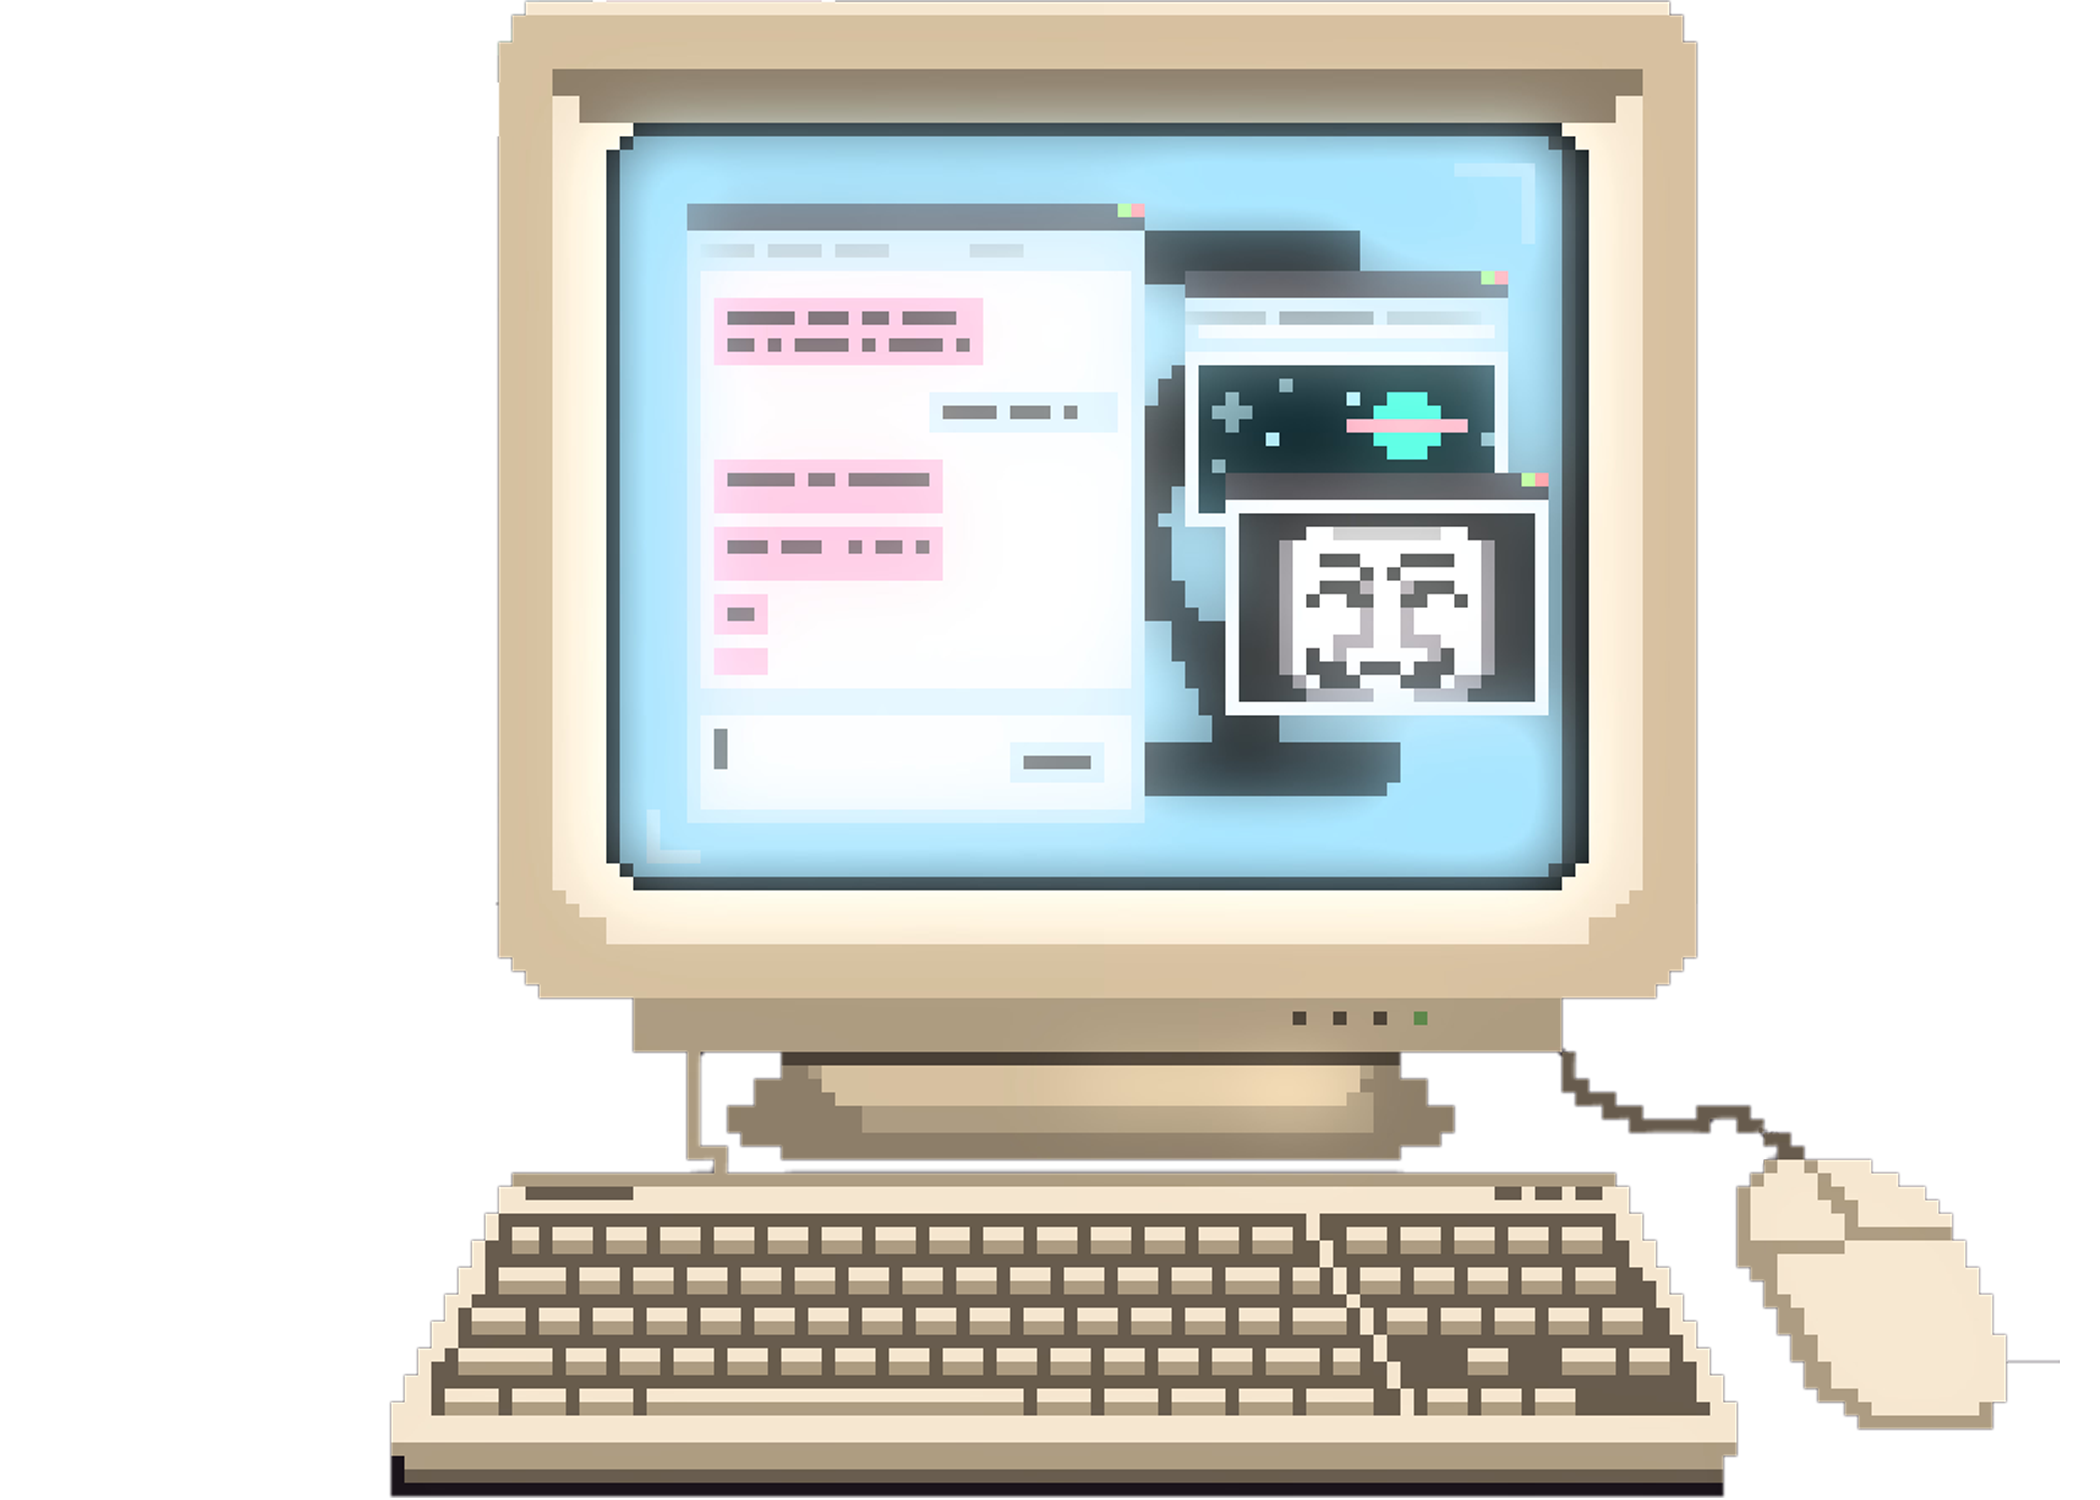
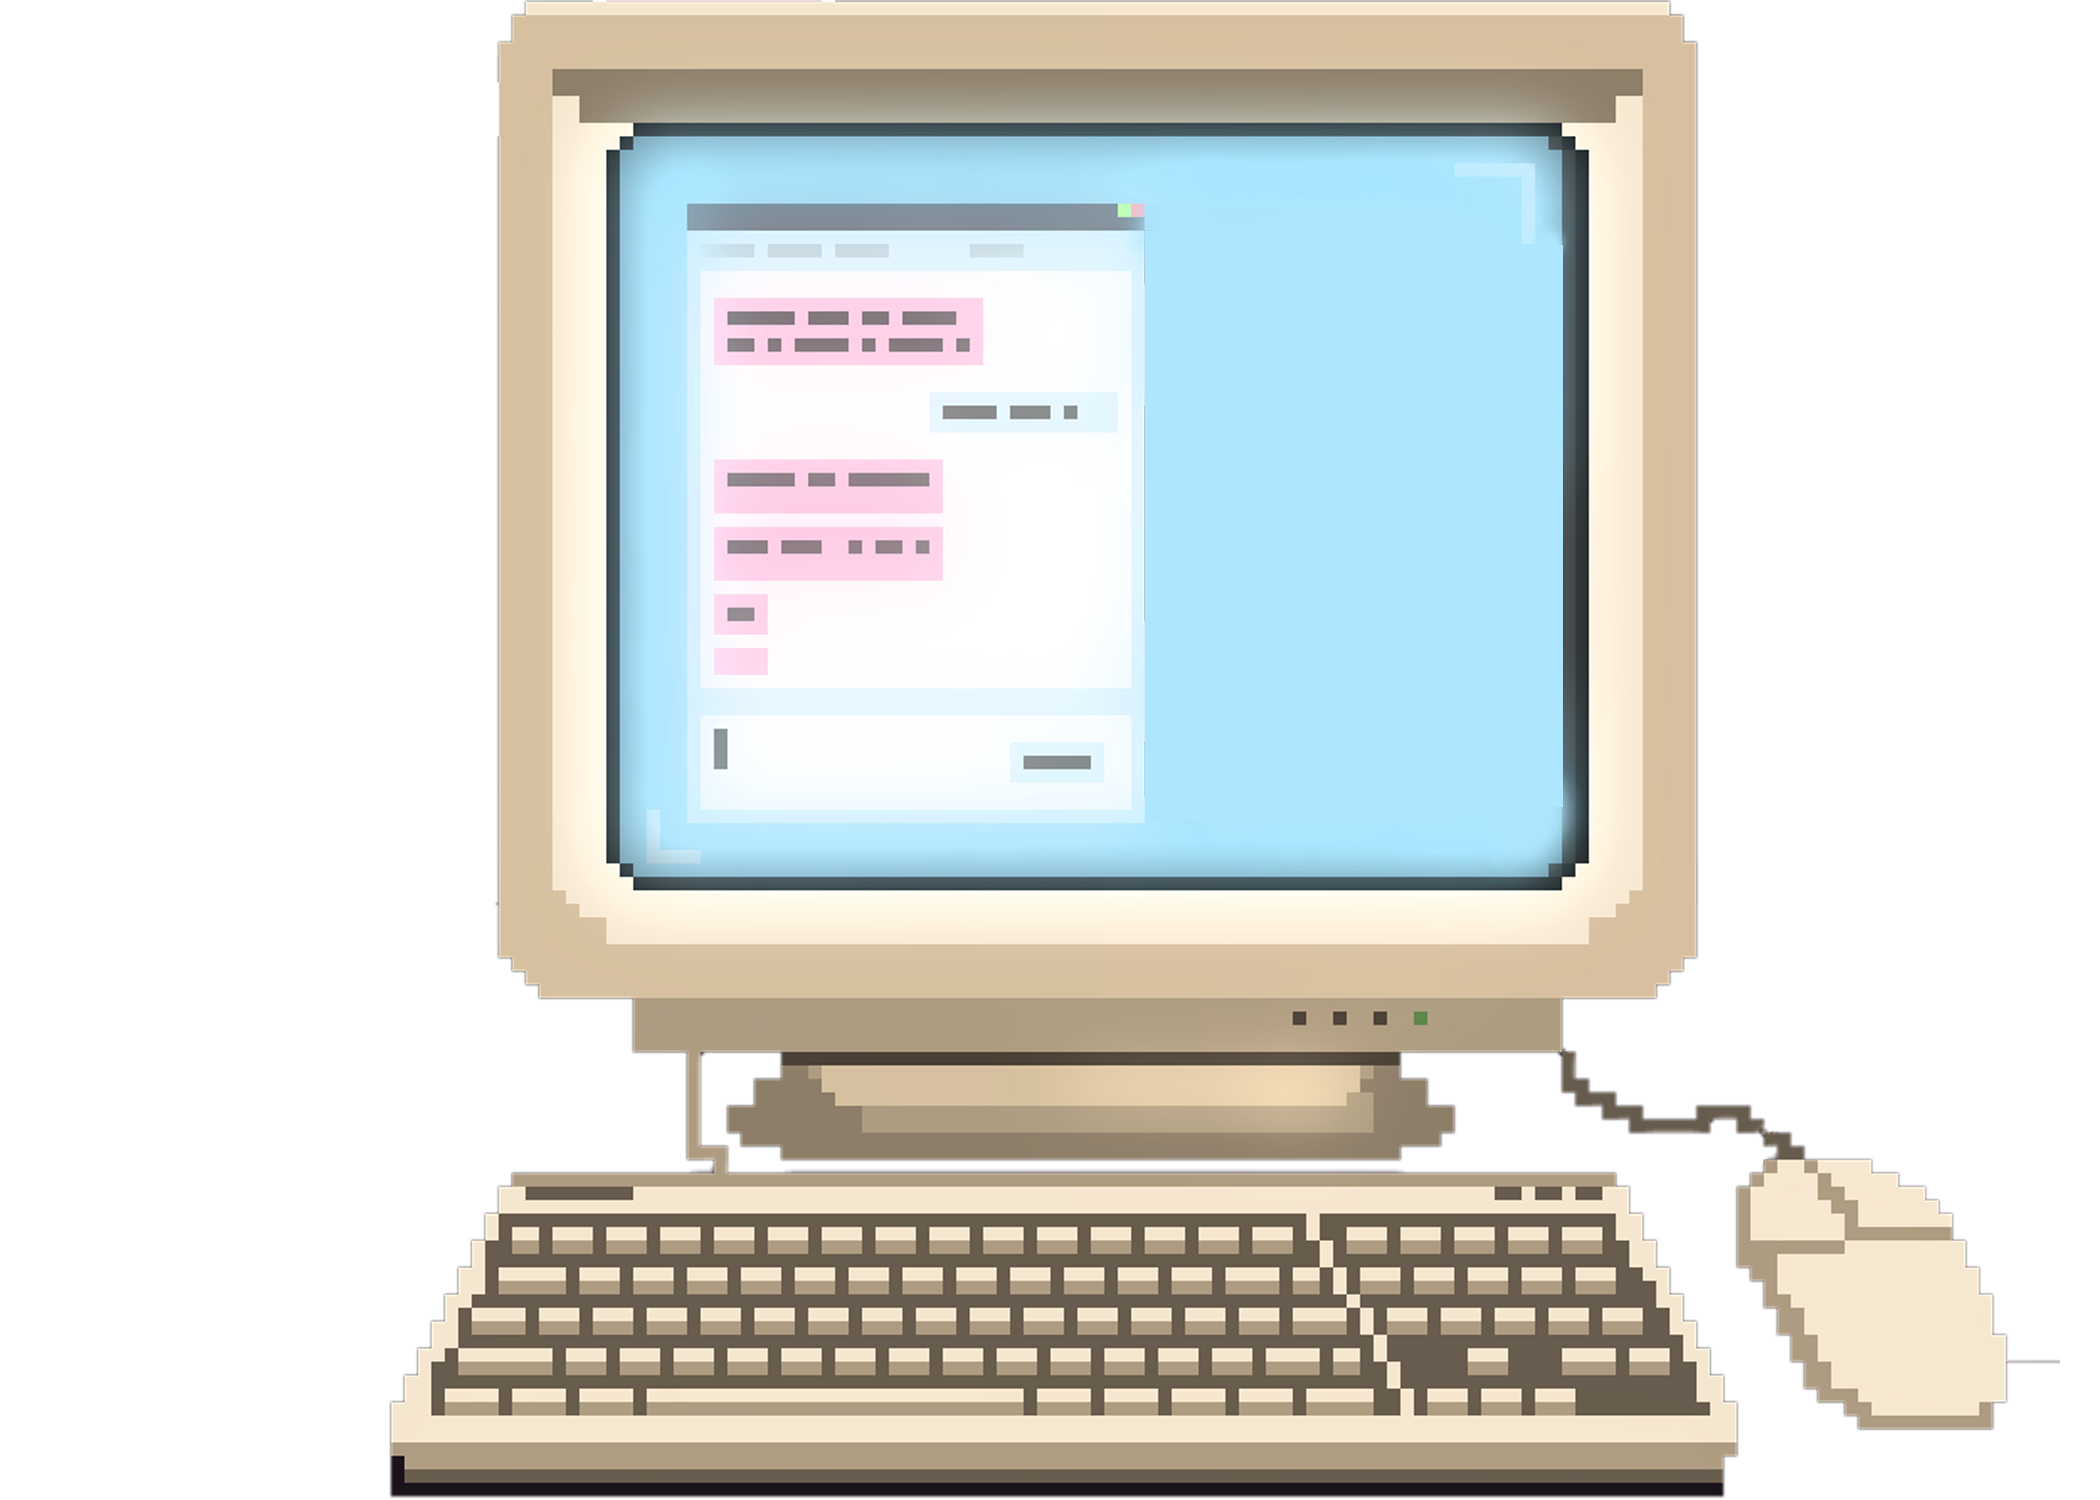
fix

Changed region(s): [[0.5262, 0.1533, 0.7738, 0.552]]

diff --git a/src/App.css b/src/App.css
@@ -9,27 +9,6 @@
   height: 100%;
   width: 100%;
 }
-.frame {
-  width: 19vw;
-  height: auto;
-}
-
-.Frame {
-  top: 5vh;
-  position: relative;
-  text-align: center;
-}
-.avatar {
-  width: 5vw;
-  height: auto;
-}
-
-.Avatar {
-  position: fixed;
-  top: 21vh;
-  left: 50vw;
-  transform: translate(-50%, -50%);
-}
 .pixelPc {
   position: fixed;
   width: auto;
@@ -54,7 +33,7 @@
   left: 11vw;
 }
 .outSide {
-  position: absolute;
+  position: fixed;
   width: auto;
   height: 500px;
   top: 9vh;
@@ -81,15 +60,12 @@
 
 .gitHubLogo {
   float: left;
-
   width: auto;
   height: 50px;
 }
 
 .instagramLogo {
-  margin-top: 25px;
   float: left;
-
   width: auto;
   height: 50px;
 }
